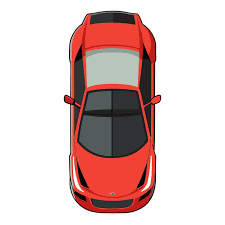
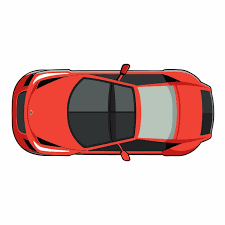
Changed Orientation

diff --git a/main.py b/main.py
@@ -1,8 +1,9 @@
 import pygame
 from pygame.locals import *
 import sys
-import random
 import time
+from player import Player
+from enemy import Enemy
 
 pygame.init()
 
@@ -17,8 +18,8 @@ BLACK = (0, 0, 0)
 WHITE = (255, 255, 255)
 
 # Screen information
-SCREEN_WIDTH = 400
-SCREEN_HEIGHT = 600
+SCREEN_WIDTH = 1080
+SCREEN_HEIGHT = 720
 SPEED = 1
 SCORE = 0
 
@@ -29,55 +30,11 @@ game_over = font.render("Game Over", True, BLACK)
 score_card = font.render("Score: ", True, BLACK)
  
 background_original = pygame.image.load("assets/Image/AnimatedStreet.png")
-background = pygame.transform.rotate(pygame.transform.scale(background_original, (600, 400)), 270)
+background = pygame.transform.rotate(pygame.transform.scale(background_original, (1080, 720)), 0)
 
 DISPLAYSURF = pygame.display.set_mode((SCREEN_WIDTH, SCREEN_HEIGHT))
 DISPLAYSURF.fill(WHITE)
-pygame.display.set_caption("Car Game")
-
-class Enemy(pygame.sprite.Sprite):
-      def __init__(self):
-        super().__init__() 
-        self.orginal_image = pygame.image.load("assets/Image/Enemy.png")
-        self.image = pygame.transform.scale(self.orginal_image, (100, 100))
-        self.rect = self.image.get_rect()
-        self.rect.center=(random.randint(40,SCREEN_WIDTH-40),0) 
- 
-      def move(self):
-        self.rect.move_ip(0,10)
-        if (self.rect.bottom > 600):
-            self.rect.top = 0
-            self.rect.center = (random.randint(30, 370), 0)
- 
-    #   def draw(self, surface):
-    #     surface.blit(self.image, self.rect) 
- 
- 
-class Player(pygame.sprite.Sprite):
-    def __init__(self):
-        super().__init__() 
-        self.orginal_image = pygame.image.load("assets/Image/Player.png")
-        self.image = pygame.transform.scale(self.orginal_image, (100, 100))
-        self.rect = self.image.get_rect()
-        self.rect.center = (160, 520)
- 
-    def move(self):
-        pressed_keys = pygame.key.get_pressed()
-       #if pressed_keys[K_UP]:
-            #self.rect.move_ip(0, -5)
-       #if pressed_keys[K_DOWN]:
-            #self.rect.move_ip(0,5)
-         
-        if self.rect.left > 0:
-              if pressed_keys[K_LEFT]:
-                  self.rect.move_ip(-10, 0)
-        if self.rect.right < SCREEN_WIDTH:        
-              if pressed_keys[K_RIGHT]:
-                  self.rect.move_ip(10, 0)
- 
-    # def draw(self, surface):
-    #     surface.blit(self.image, self.rect)     
- 
+pygame.display.set_caption("Car Game") 
          
 #Setting up Sprites        
 P1 = Player()

diff --git a/player.py b/player.py
@@ -1,0 +1,34 @@
+import pygame
+from pygame.locals import *
+
+# Screen information
+SCREEN_WIDTH = 1080
+SCREEN_HEIGHT = 720
+
+class Player(pygame.sprite.Sprite):
+    def __init__(self):
+        super().__init__() 
+        self.orginal_image = pygame.image.load("assets/Image/Player.png").convert_alpha()
+        self.image = pygame.transform.scale(self.orginal_image, (100, 100))
+        self.image.set_colorkey((255, 255, 255))
+        self.rect = self.image.get_rect()
+        self.rect.center = (160, 520)
+
+    def move(self):
+        pressed_keys = pygame.key.get_pressed()
+        if self.rect.top > 0:    
+            if pressed_keys[K_UP]:
+                self.rect.move_ip(0, -10)
+        if self.rect.bottom < SCREEN_HEIGHT:
+            if pressed_keys[K_DOWN]:
+                self.rect.move_ip(0, 10)
+         
+        #if self.rect.left > 0:
+            #if pressed_keys[K_LEFT]:
+                #self.rect.move_ip(-10, 0)
+        #if self.rect.right < SCREEN_WIDTH:        
+            #if pressed_keys[K_RIGHT]:
+                #self.rect.move_ip(10, 0)
+ 
+    # def draw(self, surface):
+    #     surface.blit(self.image, self.rect)     

diff --git a/enemy.py b/enemy.py
@@ -1,0 +1,22 @@
+import pygame
+from pygame.locals import *
+import random
+
+# Screen information
+SCREEN_WIDTH = 1080
+SCREEN_HEIGHT = 720
+
+class Enemy(pygame.sprite.Sprite):
+    def __init__(self):
+        super().__init__() 
+        self.orginal_image = pygame.image.load("assets/Image/Enemy.png").convert_alpha()
+        self.image = pygame.transform.scale(self.orginal_image, (100, 100))
+        self.image.set_colorkey((255, 255, 255))
+        self.rect = self.image.get_rect()
+        self.rect.center = (SCREEN_WIDTH, random.randint(40, SCREEN_HEIGHT-40))
+ 
+    def move(self):
+        self.rect.move_ip(-10, 0)
+        if self.rect.right < 0:
+            self.rect.left = SCREEN_WIDTH
+            self.rect.centery = random.randint(30, SCREEN_HEIGHT-30)